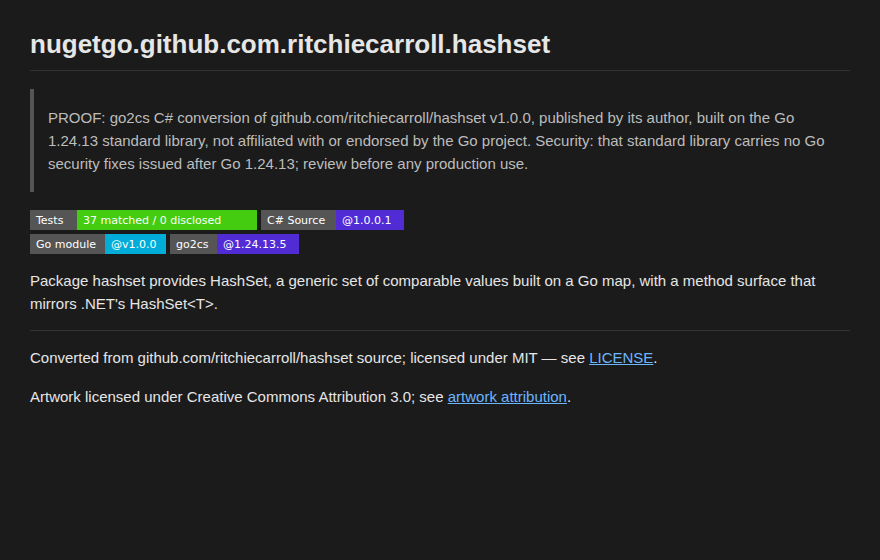
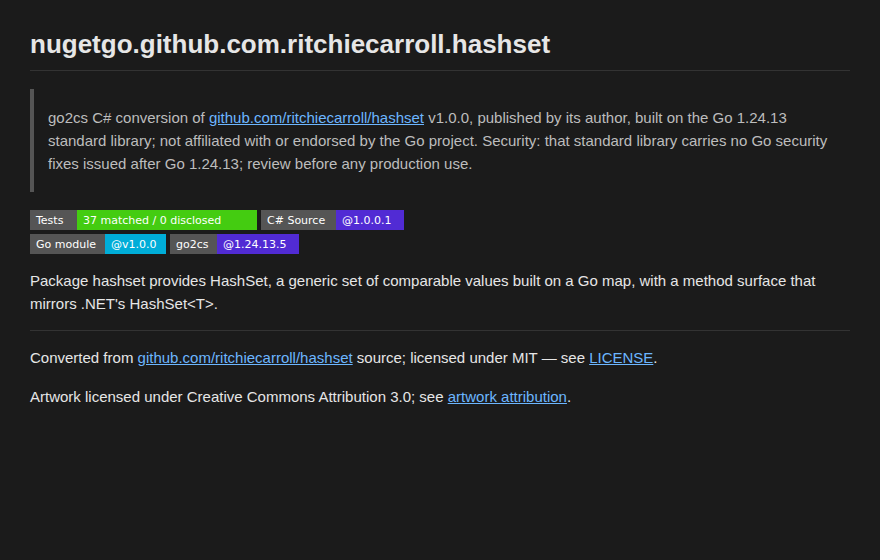
nugetgo hashset v1.0.0 rebuild (revision 1) kit: the owner's README review -- no PROOF, the Go source linked
Re-packed at the tools tree 03485eed68 from the same two roots, with the same proof (37 matched, 0 disclosed, the same
input digest). The description and the README drop "PROOF:", and the README's callout and license line link the module
at github.com/ritchiecarroll/hashset/tree/v1.0.0. The assembly, pdb, icon, LICENSE, index.md and self-description are
byte-identical to the previous kit's package. The nuspec differs only in description and release notes.

Refreshed: the nupkg, SHA256SUMS, preview/README.md and README.png, and conversion-add/VALIDATION.md. Its first line
is the description, so it changed too, and the tag must name a hashset-cs commit carrying it (COORD rules how). The
sheet notes both. evidence/SELECTION.md says why selection was not re-measured.

Claude-Session: https://claude.ai/code/session_01DNESknHoGGXyZQ1oGc1eJC

Changed region(s): [[0.0307, 0.1821, 0.9511, 0.3036], [0.1534, 0.6071, 0.3989, 0.6679]]

diff --git a/OWNER-SHEET.md b/OWNER-SHEET.md
@@ -35,12 +35,23 @@ key whose glob covers `nugetgo.*` (in `$env:NUGETGO_API_KEY`, or typed at the pr
 | `conversion-add/VALIDATION.md`, `conversion-add/index.md` | the two files the `hashset-cs` repository adds at its root (COORD's commit) |
 | `evidence/SELECTION.md` | the measurement that a consumer selects 1.0.0.1 over 1.0.0 |
 
-Packed at `T` = `claude/c2-nugetgo-tools` @ `ac8775c806` (the 1.0.0 tools plus the README and icon cut), from the same
+Packed at `T` = `claude/c2-nugetgo-tools` @ `03485eed68` (the 1.0.0 tools, the README and icon cut, and your review
+of the first preview), from the same
 two roots as 1.0.0, against the published go.* 1.24.13.5, with `-Revision 1 -Release -LicenseSpdx MIT`. The proof is
 unchanged: 37 matched, 0 disclosed, input digest
 `sha256-7fb2058d54e18d61eaa288b0e79c847c953bdadf87cdd00fdb0d832750903114`, bound to the packed project. The read-back
 was clean: README.md generated, the go2cs icon packed byte for byte, no host path, and the self-description still
 reads module version `v1.0.0` (B3: the rebuild changes the package version only).
+
+**Your review of the first preview (2026-10-10).** The description and the README no longer say "PROOF:", and the
+README's first link is the Go source: the module path in the top callout, and in the "Converted from ..." line, links
+`github.com/ritchiecarroll/hashset` at its tag `v1.0.0` on GitHub. The pack refuses a "PROOF:" in either, and a README
+whose first link is anything else. Nothing else in the package changed: the assembly, the pdb, the icon, LICENSE,
+`index.md` and the self-description are byte for byte the earlier repack's, and so are the ID, the version and the
+dependencies. One packed file did change: VALIDATION.md opens with the description, so its first line lost "PROOF: "
+too. `conversion-add/VALIDATION.md` is that new file. Block 1b compares the tag's VALIDATION.md with it, so the tag
+must name a `hashset-cs` commit that carries the new file. COORD rules how (C2's post, 2026-10-10); until then block 1b
+stops with "VALIDATION.md at nuget-1.0.0.1 is not the one the package carries", as it should.
 
 The preview badges are local stand-ins: this lane box cannot reach img.shields.io, so each badge is drawn from its
 own URL (label, message, color). nuget.org loads the real images from shields.io.

diff --git a/preview/README.md b/preview/README.md
@@ -1,6 +1,6 @@
 # nugetgo.github.com.ritchiecarroll.hashset
 
-> PROOF: go2cs C# conversion of github.com/ritchiecarroll/hashset v1.0.0, published by its author, built on the Go 1.24.13 standard library, not affiliated with or endorsed by the Go project. Security: that standard library carries no Go security fixes issued after Go 1.24.13; review before any production use.
+> go2cs C# conversion of [github.com/ritchiecarroll/hashset](https://github.com/ritchiecarroll/hashset/tree/v1.0.0) v1.0.0, published by its author, built on the Go 1.24.13 standard library; not affiliated with or endorsed by the Go project. Security: that standard library carries no Go security fixes issued after Go 1.24.13; review before any production use.
 
 [![Tests](https://img.shields.io/badge/Tests-37_matched_%2F_0_disclosed-brightgreen?logo=go)](https://github.com/ritchiecarroll/hashset-cs/blob/nuget-1.0.0.1/VALIDATION.md) [![C# Source](https://img.shields.io/badge/C%23_Source-@1.0.0.1-512BD4?logo=dotnet)](https://github.com/ritchiecarroll/hashset-cs/tree/nuget-1.0.0.1)\
 [![Go module](https://img.shields.io/badge/Go_module-@v1.0.0-00ADD8?logo=go)](https://pkg.go.dev/github.com/ritchiecarroll/hashset@v1.0.0) [![go2cs](https://img.shields.io/badge/go2cs-@1.24.13.5-512BD4?logo=dotnet)](https://github.com/ritchiecarroll/go2cs/tree/nuget-1.24.13.5)
@@ -9,6 +9,6 @@ Package hashset provides HashSet, a generic set of comparable values built on a 
 
 ---
 
-Converted from github.com/ritchiecarroll/hashset source; licensed under MIT — see [LICENSE](https://github.com/ritchiecarroll/hashset-cs/blob/nuget-1.0.0.1/LICENSE).
+Converted from [github.com/ritchiecarroll/hashset](https://github.com/ritchiecarroll/hashset/tree/v1.0.0) source; licensed under MIT — see [LICENSE](https://github.com/ritchiecarroll/hashset-cs/blob/nuget-1.0.0.1/LICENSE).
 
 Artwork licensed under Creative Commons Attribution 3.0; see [artwork attribution](https://github.com/ritchiecarroll/go2cs/blob/master/docs/images/README).

diff --git a/evidence/SELECTION.md b/evidence/SELECTION.md
@@ -3,6 +3,9 @@
 Measured by C2 on 2026-10-10 on the linux lane box, with go2cs built at `T` = `claude/c2-nugetgo-tools` @ `c8ef680e14`.
 Re-measured the same day on the package re-packed at `ac8775c806` (its README links the conversion tag): the same
 selection, `[1.0.0.1]`, and the lock pins it. The converter is unchanged between the two tools commits.
+Not re-measured on the package re-packed at `03485eed68` (the owner's review: no "PROOF:", the module source linked):
+between `ac8775c806` and `03485eed68` no converter Go source changed, and the two packages' nuspecs differ only in
+`<description>` and `<releaseNotes>`. Selection reads the ID, the version and the dependencies, which are equal.
 The sample program is the hashset kit's `app/` (`example.com/hashsetdemo`), and the mapping is the registry row, unchanged:
 
 ```

diff --git a/conversion-add/VALIDATION.md b/conversion-add/VALIDATION.md
@@ -1,4 +1,4 @@
-> PROOF: go2cs C# conversion of github.com/ritchiecarroll/hashset v1.0.0, published by its author, built on the Go 1.24.13 standard library, not affiliated with or endorsed by the Go project. Security: that standard library carries no Go security fixes issued after Go 1.24.13; review before any production use.
+> go2cs C# conversion of github.com/ritchiecarroll/hashset v1.0.0, published by its author, built on the Go 1.24.13 standard library; not affiliated with or endorsed by the Go project. Security: that standard library carries no Go security fixes issued after Go 1.24.13; review before any production use.
 
 # `github.com/ritchiecarroll/hashset` — module validation summary
 
